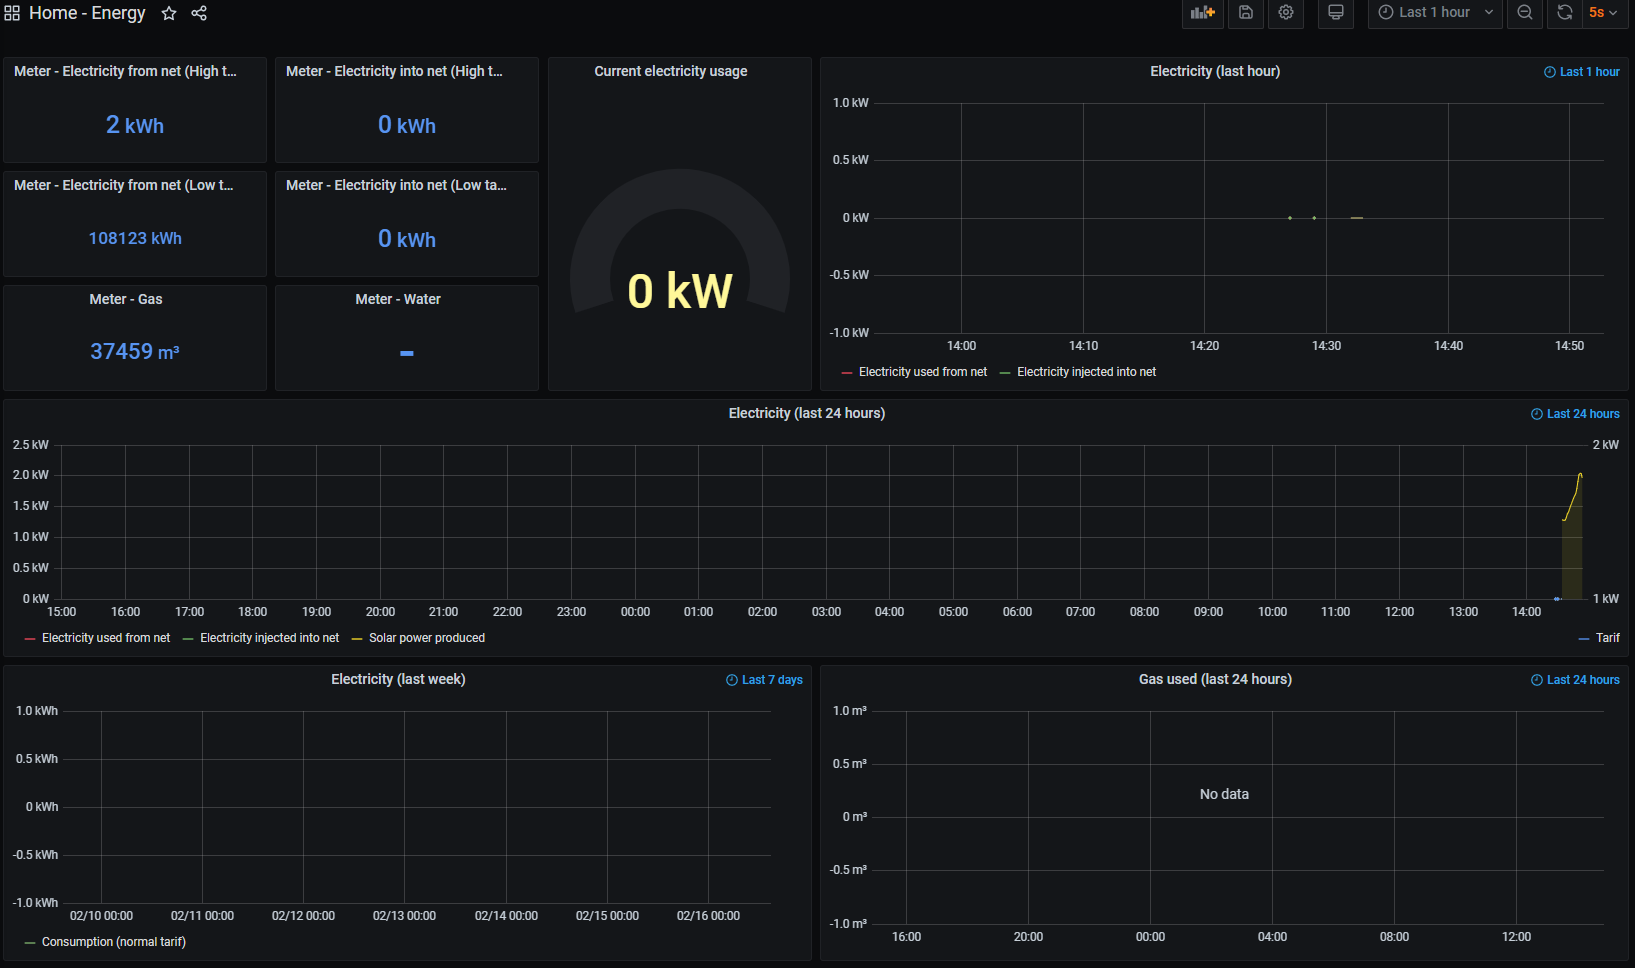
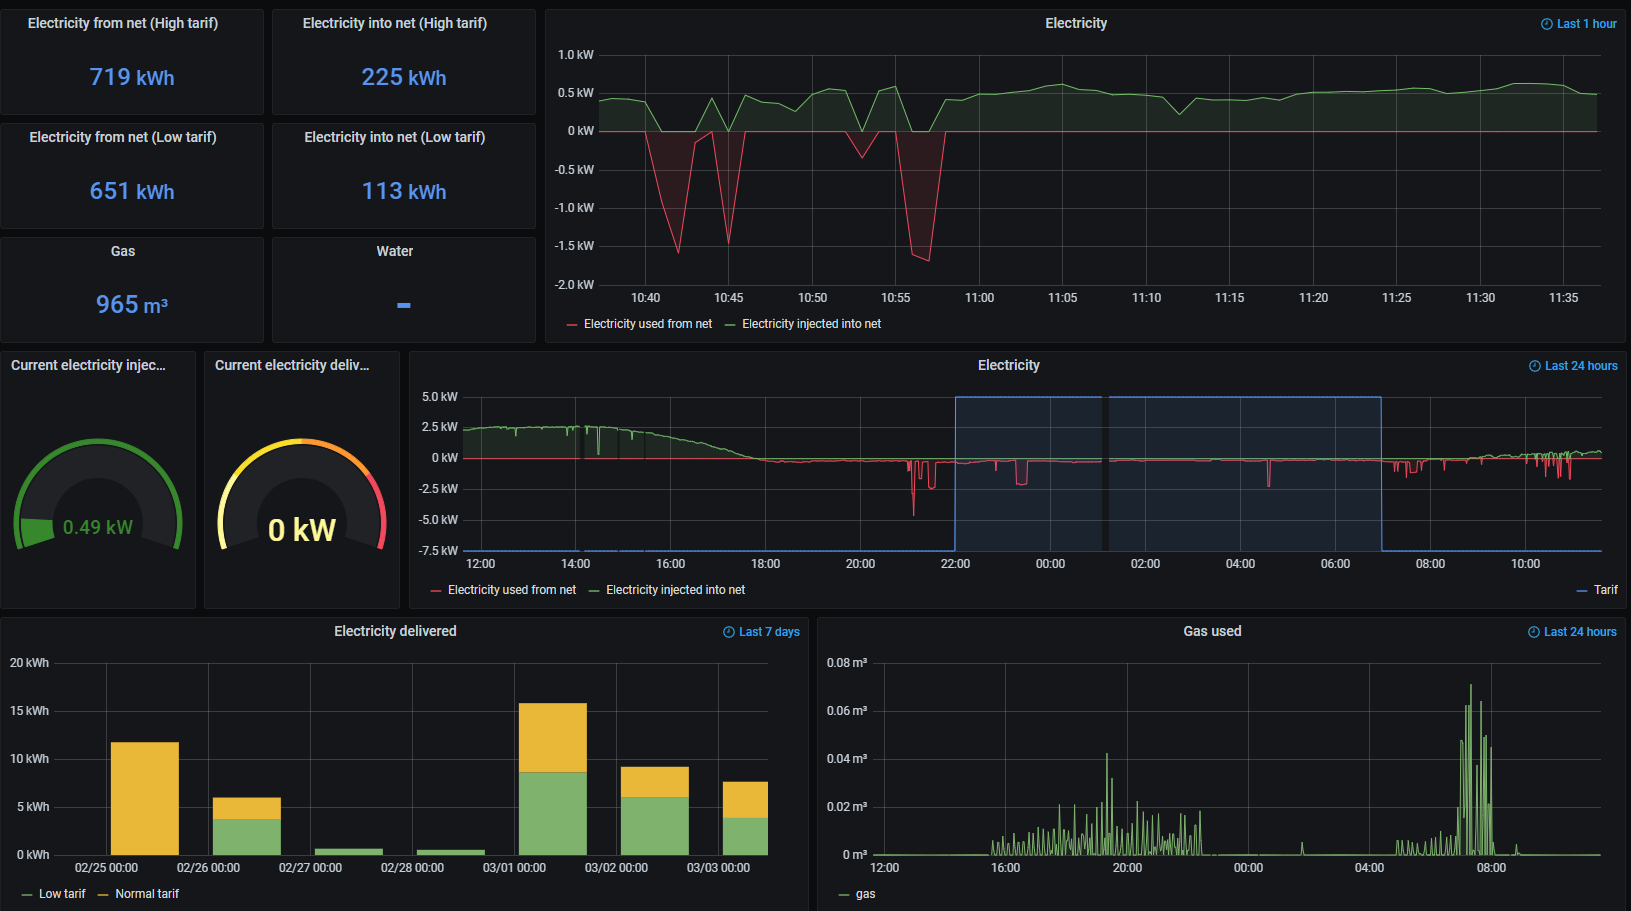
update dashboard image

diff --git a/docs/10_output/README.md b/docs/10_output/README.md
@@ -147,8 +147,6 @@ You can download a sample dashboard [here](/files/grafana.json).
 
 ![image](./images/afbeelding5.png)
 
-<!-- TODO: Change this image once we have actual data  -->
-
 ### Interpret your dashboard
 
 * In the electricity graphs you can detect spikes in delivery and start investegating the cause and if you can either make improvements or redirect this energy usage to a low tarif period.
